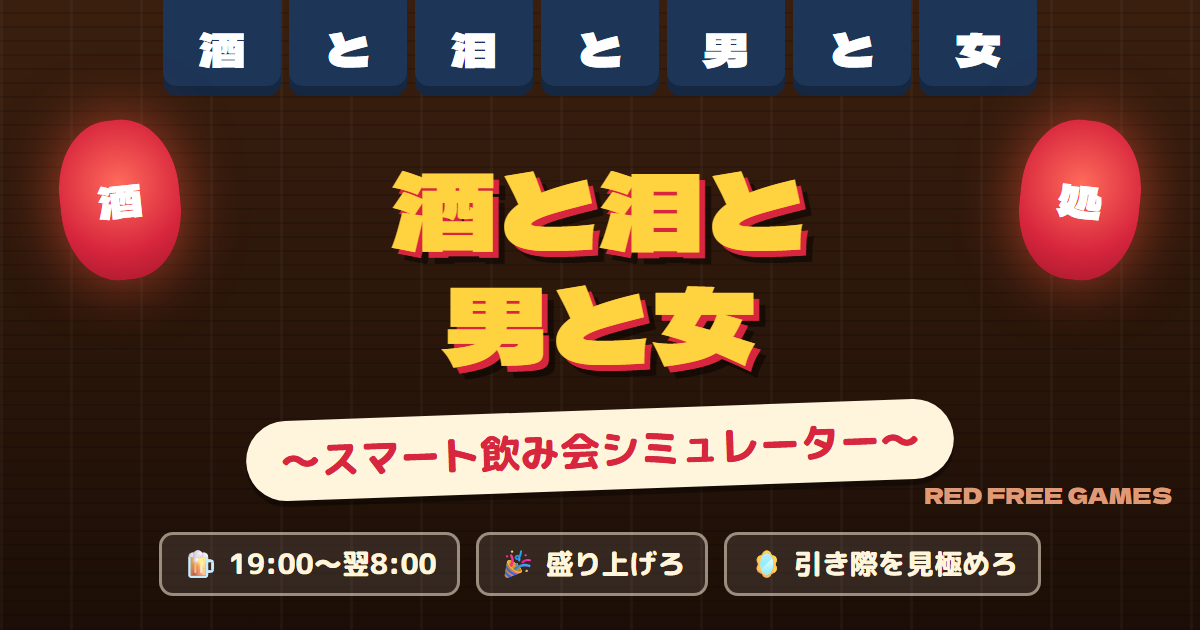
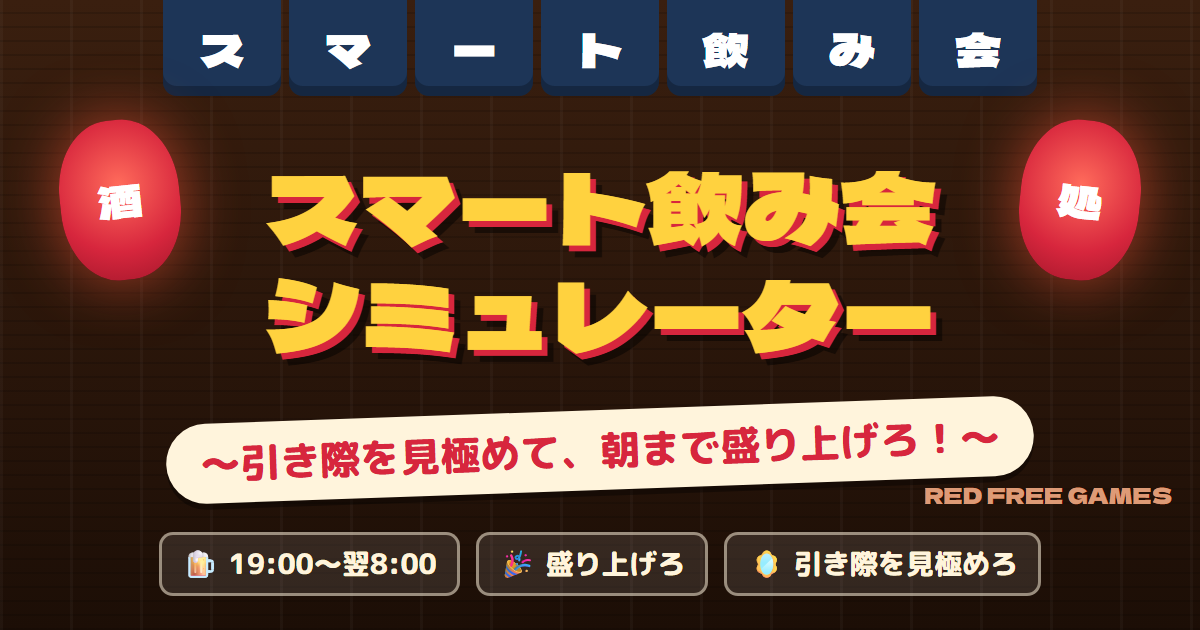
Unify game title to スマート飲み会シミュレーター

diff --git a/index.html b/index.html
@@ -5,8 +5,8 @@
 <meta name="viewport" content="width=device-width,initial-scale=1,viewport-fit=cover">
 <meta name="theme-color" content="#2b170c">
 <title>スマート飲み会シミュレーター</title>
-<meta name="description" content="お酒の失敗を防ぎつつスマートに飲み会を生き残る啓発型シミュレーションゲーム『酒と泪と男と女〜スマート飲み会シミュレーター〜』">
-<meta property="og:title" content="酒と泪と男と女〜スマート飲み会シミュレーター〜">
+<meta name="description" content="お酒の失敗を防ぎつつスマートに飲み会を生き残る啓発型シミュレーションゲーム『スマート飲み会シミュレーター』">
+<meta property="og:title" content="スマート飲み会シミュレーター">
 <meta property="og:description" content="19時から翌朝8時まで、酔いつぶれずに盛り上げ続けろ。ドリンク・フード・行動の3択で、引き際を見極めるスマート飲み会サバイバル。">
 <meta property="og:type" content="website">
 <meta property="og:url" content="https://red-freegames.github.io/smart-nomikai/">
@@ -16,7 +16,7 @@
 <meta property="og:site_name" content="RED FREE GAMES">
 <meta property="og:locale" content="ja_JP">
 <meta name="twitter:card" content="summary_large_image">
-<meta name="twitter:title" content="酒と泪と男と女〜スマート飲み会シミュレーター〜">
+<meta name="twitter:title" content="スマート飲み会シミュレーター">
 <meta name="twitter:description" content="19時から翌朝8時まで、酔いつぶれずに盛り上げ続けろ。引き際を見極めるスマート飲み会サバイバル。">
 <meta name="twitter:image" content="https://red-freegames.github.io/smart-nomikai/og.png">
 <link rel="canonical" href="https://red-freegames.github.io/smart-nomikai/">
@@ -298,7 +298,7 @@ body.lv3 .sheet .nm,body.lv3 .bubble,body.lv3 .sheet h3{text-shadow:3px 1px 0 rg
 
 <script>
 /* =========================================================
-   酒と泪と男と女〜スマート飲み会シミュレーター〜
+   スマート飲み会シミュレーター
    ========================================================= */
 const app = document.getElementById('app');
 const modal = document.getElementById('modal');
@@ -619,7 +619,7 @@ function show(html, prep) { document.body.classList.toggle('prep', !!prep); app.
 function openModal(html, game) { modal.innerHTML = html; modal.classList.toggle('game', !!game); modal.classList.add('on'); }
 function closeModal() { modal.classList.remove('on'); modal.innerHTML = ''; }
 function header() {
-  return `<div class="noren"><span>酒</span><span>と</span><span>泪</span><span>と</span><span>男</span><span>と</span><span>女</span></div>`;
+  return `<div class="noren"><span>ス</span><span>マ</span><span>ー</span><span>ト</span><span>飲</span><span>み</span><span>会</span></div>`;
 }
 function btn(o, fn, cls) {
   return `<button class="btn ${cls || ''}" data-h="${on(fn)}"><span class="ic">${o.icon}</span><span class="tx">${o.label}<small>${o.sub || ''}</small></span></button>`;
@@ -690,8 +690,8 @@ function screenTitle() {
     ${header()}
     <div class="lanterns"><div class="lantern">酒</div><div class="lantern">処</div></div>
     <div class="title-box">
-      <div class="title-main">酒と泪と<br>男と女</div>
-      <div class="title-sub">〜スマート飲み会シミュレーター〜</div>
+      <div class="title-main">スマート飲み会<br>シミュレーター</div>
+      <div class="title-sub">〜引き際を見極めて、朝まで盛り上げろ！〜</div>
     </div>
     <div class="card">
       <h2>🍻 ステージを選ぶ</h2>
@@ -1110,7 +1110,7 @@ function finish(type) {
   keys.push('general');
   const learn = [...new Set(keys)].slice(0, 4).map(k => `<li><b>${LEARN[k][0]}</b><br>${LEARN[k][1]}</li>`).join('');
 
-  const head = `🍻『酒と泪と男と女〜スマート飲み会シミュレーター〜』\nSTAGE${S.stage + 1}「${st.name}」`;
+  const head = `🍻『スマート飲み会シミュレーター』\nSTAGE${S.stage + 1}「${st.name}」`;
   const shareText = {
     complete: `${head}で朝8時まで完走！🌅完全クリア！\n🏅ランクS\n💯スコア：${yen(score)}（会計×2）`,
     home: `${head}、${clock()}に${S.visited}軒目で帰宅🏠\n🏅ランク${rank}\n💯スコア：${yen(score)}`,

diff --git a/README.md b/README.md
@@ -1,4 +1,4 @@
-# 酒と泪と男と女〜スマート飲み会シミュレーター〜
+# スマート飲み会シミュレーター
 
 お酒の失敗を防ぎつつ、スマートに飲み会を生き残る啓発型シミュレーションゲーム。
 1ファイル（`index.html`）で動くブラウザゲームです。
